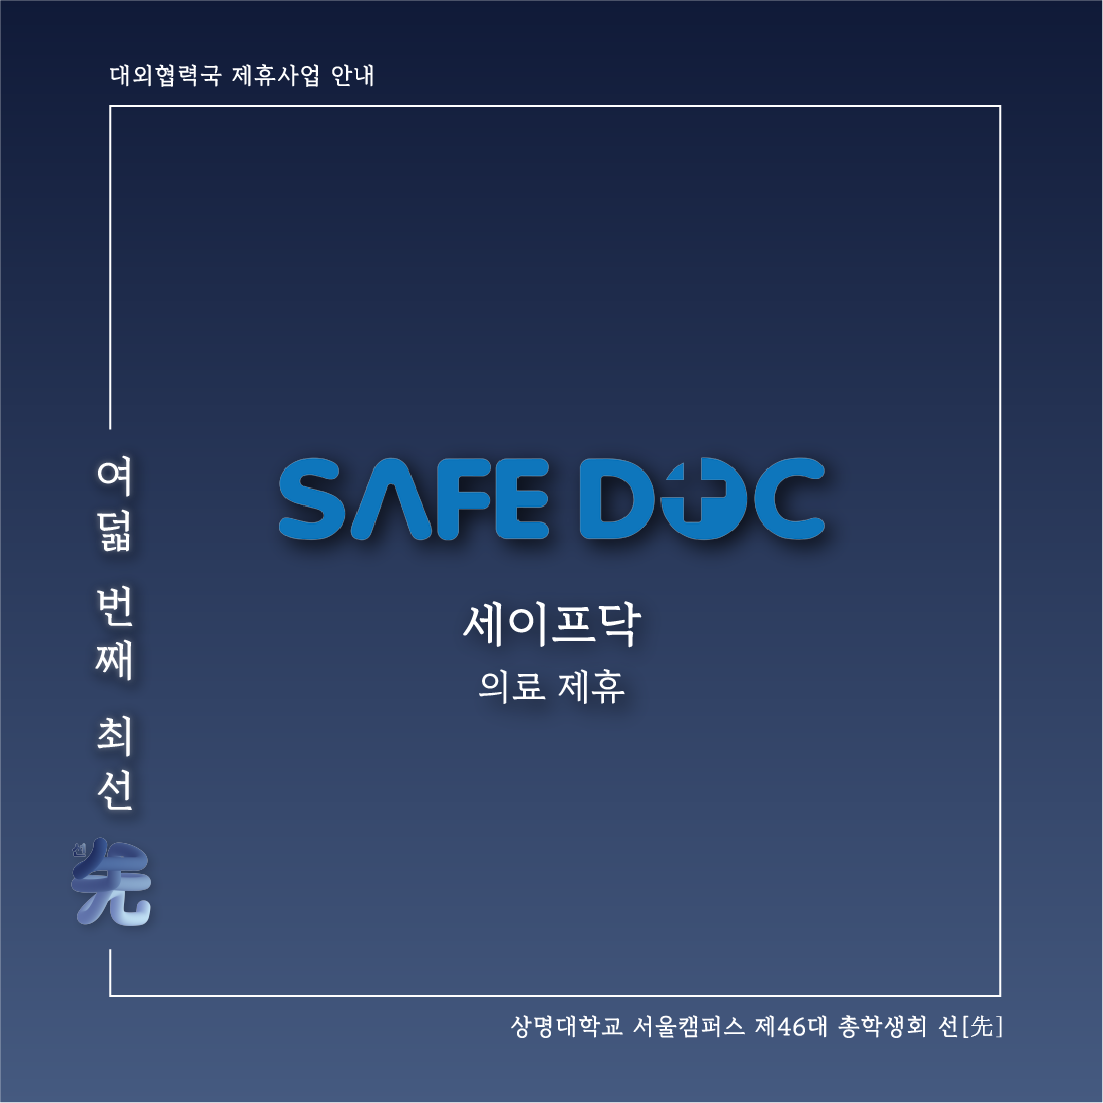
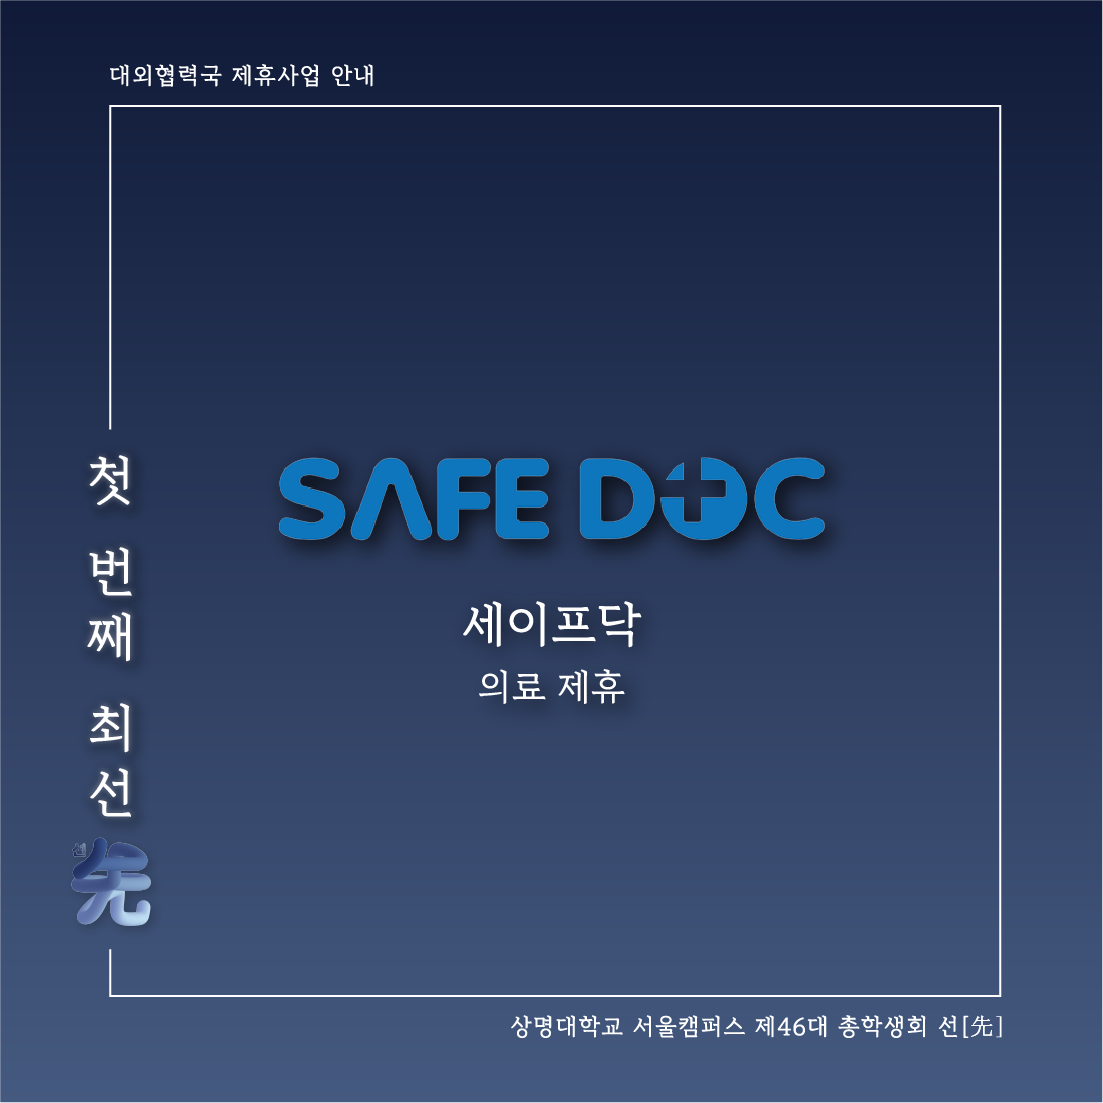
Feat: notice, partner data add

Changed region(s): [[0.0617, 0.4007, 0.1233, 0.7398]]

diff --git a/src/constants/data/NoticeData.tsx b/src/constants/data/NoticeData.tsx
@@ -627,7 +627,68 @@ import Img105_3 from "../../assets/partner/8/3.jpg";
 
 import Img106_1 from "../../assets/event/11/1.jpg";
 
+import Img107_1 from "../../assets/notice/107/1.jpg";
+import Img107_2 from "../../assets/notice/107/2.jpg";
+import Img107_3 from "../../assets/notice/107/3.jpg";
+import Img107_4 from "../../assets/notice/107/4.jpg";
+import Img107_5 from "../../assets/notice/107/5.jpg";
+
+import Img108_1 from "../../assets/partner/9/1.jpg";
+import Img108_2 from "../../assets/partner/9/2.jpg";
+
 export const NoticeData = [
+  {
+    id: 108,
+    link: "/info/notice/detail/108",
+    title: "상명대학교 제46대 총학생회 '선[先]' X 에듀윌 제휴",
+    date: "2023-06-21",
+    owner: "관리자",
+    kind: "제휴",
+    content:
+      "안녕하십니까, 상명대학교 서울캠퍼스 학우 여러분! 제46대 총학생회 선[先] 대외협력국입니다.<br/><br/>대외협력국에서는 학우 여러분들이 문화, 복지, 교육 등 다양한 분야에서 좋은 혜택을 누릴 수 있도록 제휴를 맺고 있습니다.<br/><br/>이런 제휴 내용들을 ‘최선’이라는 이름 하에 학우 여러분들께 전달드리고 있습니다!<br/><br/>‘아홉 번째 최선’으로 공무원 시험은 합격은~🎶에듀윌🎶과 온라인 강의 제휴를 맺게 되었습니다.<br/><br/>상명대학교 서울캠퍼스 재/휴학생이라면 누구나!<br/><br/>1⃣2페이지의 QR 코드 or 하단 링크 클릭하고,<br/>2⃣상명대학교 서울캠퍼스 인증코드(875114)를 입력하여<br/>3⃣15% 중복할인 쿠폰을 발급받아 해당 금액만큼 온라인 강의를 할인 받으실 수 있습니다.<br/><br/>🍀 제휴 대학 쿠폰 입력 링크 : <a href='https://event.eduwill.net/Event/2023/0/univ' style='color: blue'>https://event.eduwill.net/Event/2023/0/univ</a><br/><br/>지속적으로 업로드 될 대외협력국 제휴 콘텐츠 ‘최선‘. 학우 여러분들의 많은 관심 부탁드립니다!<br/><br/>[ 제휴 내용 ]<br/><br/>💛 '에듀윌'<br/><br/>🎁 제휴 혜택<br/>대상 : 상명대학교 서울캠퍼스 재/휴학생 모두<br/>혜택 : ‘상명대학교 서울캠퍼스 인증코드(875114)’ 입력 시 15% 중복할인 쿠폰 발급. (링크 및 2페이지의 QR코드 참조)<br/><br/>🫧 그대 외침 닿을 때까지, 한 걸음 앞에 먼저 선[先] 🫧<br/><br/>🌐 Homepage : <a href='https://www.student-smu.com' style='color: blue'>https://www.student-smu.com</a><br/>🌐 Instagram : <a href='https://www.instagram.com/smu_1st' style='color: blue'>smu_1st</a><br/>🌐 Kakao : <a href='https://open.kakao.com/o/sXKtjVbf' style='color: blue'>https://open.kakao.com/o/sXKtjVbf</a>",
+    inImg: [
+      {
+        img: Img108_1,
+        alt: "img108_1",
+      },
+      {
+        img: Img108_2,
+        alt: "img108_2",
+      },
+    ],
+  },
+  {
+    id: 107,
+    link: "/info/notice/detail/107",
+    title: "상명대학교 제46대 총학생회 '선[先]' 농촌 봉사 활동 선[先]행 안내",
+    date: "2023-06-20",
+    owner: "관리자",
+    kind: "공지",
+    content:
+      "안녕하십니까, 상명대학교 서울캠퍼스 학우 여러분! 제46대 총학생회 선[先] 복지사업국입니다🍀<br/><br/>이번 하계 방학 중, 총학생회 주관 하에 농촌 봉사 활동을 진행합니다👨🏻🌾<br/><br/>“선행[先行] : 어떠한 것보다 앞서 행함”의 의미를 담아, 진행하는 농촌 봉사 활동을 함께 하실 학우분들을 모집합니다.<br/><br/>🌱 OT 일정 : 7/17 (월) * 필참 (안전교육 예정)<br/>🌱 활동 일정 : 7/18 (화) - 7/21 (금)<br/>🌱 활동 장소 : 경기도 이천시 대월면 군들로<br/>🌱 활동 내용 : 호박 농사, 마을 환경 정리 등<br/><br/>봉사 활동을 하면서 뜻깊은 체험을 하고 싶으신 학우분들께서는 다음과 같은 방법에 맞게 신청해주시면 됩니다.<br/><br/>📍모집 일정 : 6/23 (금) 오전 11시 ~ 선착순 마감 시까지<br/>📍모집 인원 : 40명<br/>📍신청 방법 : 총학생회 인스타그램 / 본문 내용 구글폼 링크<br/><br/>🪴농촌 봉사 활동 신청 구글폼 링크🪴<br/><a href='https://forms.gle/7ajKi2MajQzWaAMD8' style='color: blue'>https://forms.gle/7ajKi2MajQzWaAMD8</a><br/><br/>⚠ 정시 이후 응답만 유효하므로, 참고 부탁드립니다.<br/><br/>앞으로도 다양한 방면에서, 학우분들의 복지를 위해 더욱 노력하도록 하겠습니다. 감사합니다💙<br/><br/>관련하여 문의 사항이 있으시다면, 아래 방법을 통해 연락해주시면 감사하겠습니다🙂<br/><br/>🫧 그대 외침 닿을 때까지, 한 걸음 앞에 먼저 선[先] 🫧<br/><br/>🌐 Homepage : <a href='https://www.student-smu.com' style='color: blue'>https://www.student-smu.com</a><br/>🌐 Instagram : <a href='https://www.instagram.com/smu_1st' style='color: blue'>smu_1st</a><br/>🌐 Kakao : <a href='https://open.kakao.com/o/sXKtjVbf' style='color: blue'>https://open.kakao.com/o/sXKtjVbf</a>",
+    inImg: [
+      {
+        img: Img107_1,
+        alt: "img107_1",
+      },
+      {
+        img: Img107_2,
+        alt: "img107_2",
+      },
+      {
+        img: Img107_3,
+        alt: "img107_3",
+      },
+      {
+        img: Img107_4,
+        alt: "img107_4",
+      },
+      {
+        img: Img107_5,
+        alt: "img107_5",
+      },
+    ],
+  },
   {
     id: 106,
     link: "/info/notice/detail/106",

diff --git a/src/constants/data/PartnerData.tsx b/src/constants/data/PartnerData.tsx
@@ -36,7 +36,32 @@ import Img8_1 from "../../assets/partner/8/1.jpg";
 import Img8_2 from "../../assets/partner/8/2.jpg";
 import Img8_3 from "../../assets/partner/8/3.jpg";
 
+import Img9_1 from "../../assets/partner/9/1.jpg";
+import Img9_2 from "../../assets/partner/9/2.jpg";
+
 export const PartnerData = [
+  {
+    id: 9,
+    link: "/work/partnership/detail/9",
+    img: Img9_1,
+    alt: "img9_1",
+    title: "총학생회 선[先] X 에듀윌",
+    inTitle: "💙아홉 번째 최선(先), 에듀윌",
+    date: "2023-06-21",
+    owner: "관리자",
+    content:
+      "안녕하십니까, 상명대학교 서울캠퍼스 학우 여러분! 제46대 총학생회 선[先] 대외협력국입니다.<br/><br/>대외협력국에서는 학우 여러분들이 문화, 복지, 교육 등 다양한 분야에서 좋은 혜택을 누릴 수 있도록 제휴를 맺고 있습니다.<br/><br/>이런 제휴 내용들을 ‘최선’이라는 이름 하에 학우 여러분들께 전달드리고 있습니다!<br/><br/>‘아홉 번째 최선’으로 공무원 시험은 합격은~🎶에듀윌🎶과 온라인 강의 제휴를 맺게 되었습니다.<br/><br/>상명대학교 서울캠퍼스 재/휴학생이라면 누구나!<br/><br/>1⃣2페이지의 QR 코드 or 하단 링크 클릭하고,<br/>2⃣상명대학교 서울캠퍼스 인증코드(875114)를 입력하여<br/>3⃣15% 중복할인 쿠폰을 발급받아 해당 금액만큼 온라인 강의를 할인 받으실 수 있습니다.<br/><br/>🍀 제휴 대학 쿠폰 입력 링크 : <a href='https://event.eduwill.net/Event/2023/0/univ' style='color: blue'>https://event.eduwill.net/Event/2023/0/univ</a><br/><br/>지속적으로 업로드 될 대외협력국 제휴 콘텐츠 ‘최선‘. 학우 여러분들의 많은 관심 부탁드립니다!<br/><br/>[ 제휴 내용 ]<br/><br/>💛 '에듀윌'<br/><br/>🎁 제휴 혜택<br/>대상 : 상명대학교 서울캠퍼스 재/휴학생 모두<br/>혜택 : ‘상명대학교 서울캠퍼스 인증코드(875114)’ 입력 시 15% 중복할인 쿠폰 발급. (링크 및 2페이지의 QR코드 참조)<br/><br/>🫧 그대 외침 닿을 때까지, 한 걸음 앞에 먼저 선[先] 🫧<br/><br/>🌐 Homepage : <a href='https://www.student-smu.com' style='color: blue'>https://www.student-smu.com</a><br/>🌐 Instagram : <a href='https://www.instagram.com/smu_1st' style='color: blue'>smu_1st</a><br/>🌐 Kakao : <a href='https://open.kakao.com/o/sXKtjVbf' style='color: blue'>https://open.kakao.com/o/sXKtjVbf</a>",
+    inImg: [
+      {
+        img: Img9_1,
+        alt: "img9_1",
+      },
+      {
+        img: Img9_2,
+        alt: "img9_2",
+      },
+    ],
+  },
   {
     id: 8,
     link: "/work/partnership/detail/8",
